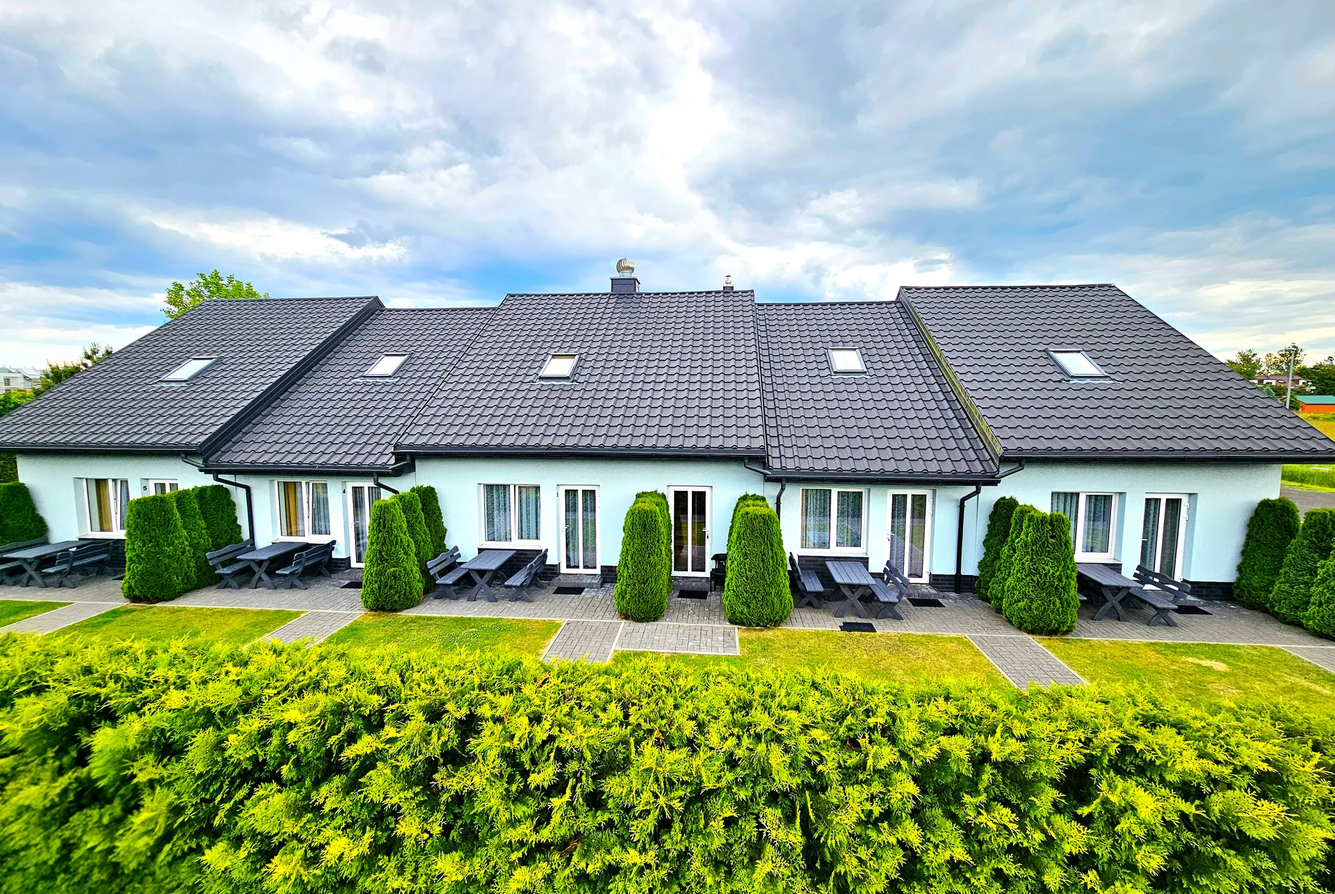
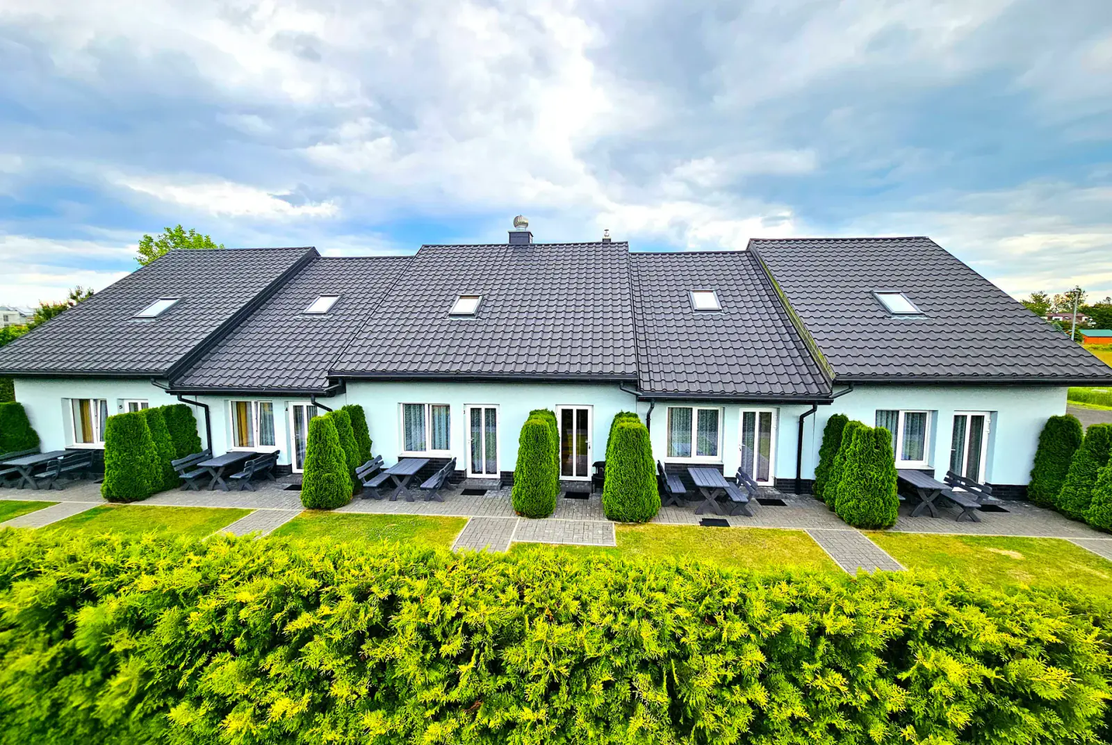
Przyspiesz FCP i TTFB na mobile.
Usuń zbędny preload hero i middleware, zoptymalizuj obraz hero i fonty, dodaj cache CDN w vercel.json.

diff --git a/app/layout.tsx b/app/layout.tsx
@@ -12,12 +12,17 @@ const display = Plus_Jakarta_Sans({
   variable: "--font-display",
   subsets: ["latin", "latin-ext"],
   display: "swap",
+  weight: ["600", "700"],
+  adjustFontFallback: true,
 });
 
 const body = Source_Sans_3({
   variable: "--font-body",
   subsets: ["latin", "latin-ext"],
   display: "swap",
+  weight: ["400", "600"],
+  adjustFontFallback: true,
+  preload: false,
 });
 
 const googleVerification = process.env.GOOGLE_SITE_VERIFICATION?.trim();

diff --git a/components/Hero.tsx b/components/Hero.tsx
@@ -15,8 +15,8 @@ export function Hero() {
           fill
           priority
           fetchPriority="high"
-          quality={95}
-          sizes="100vw"
+          quality={78}
+          sizes="(max-width: 768px) 100vw, (max-width: 1280px) 100vw, 1280px"
           className="object-cover object-center"
         />
       </div>

diff --git a/docs/PRZEKIEROWANIE-DOMENA.md b/docs/PRZEKIEROWANIE-DOMENA.md
@@ -30,7 +30,8 @@
 | Strona | `https://www.grzybowo-noclegi.pl` |
 | Sitemap | `https://www.grzybowo-noclegi.pl/sitemap.xml` |
 | Robots | `https://www.grzybowo-noclegi.pl/robots.txt` |
-| http → https, bez www → www | `middleware.ts` + `vercel.json` |
+| http → https | automatycznie na Vercel |
+| bez www → www | `vercel.json` (przekierowanie 308) |
 
 ---
 
